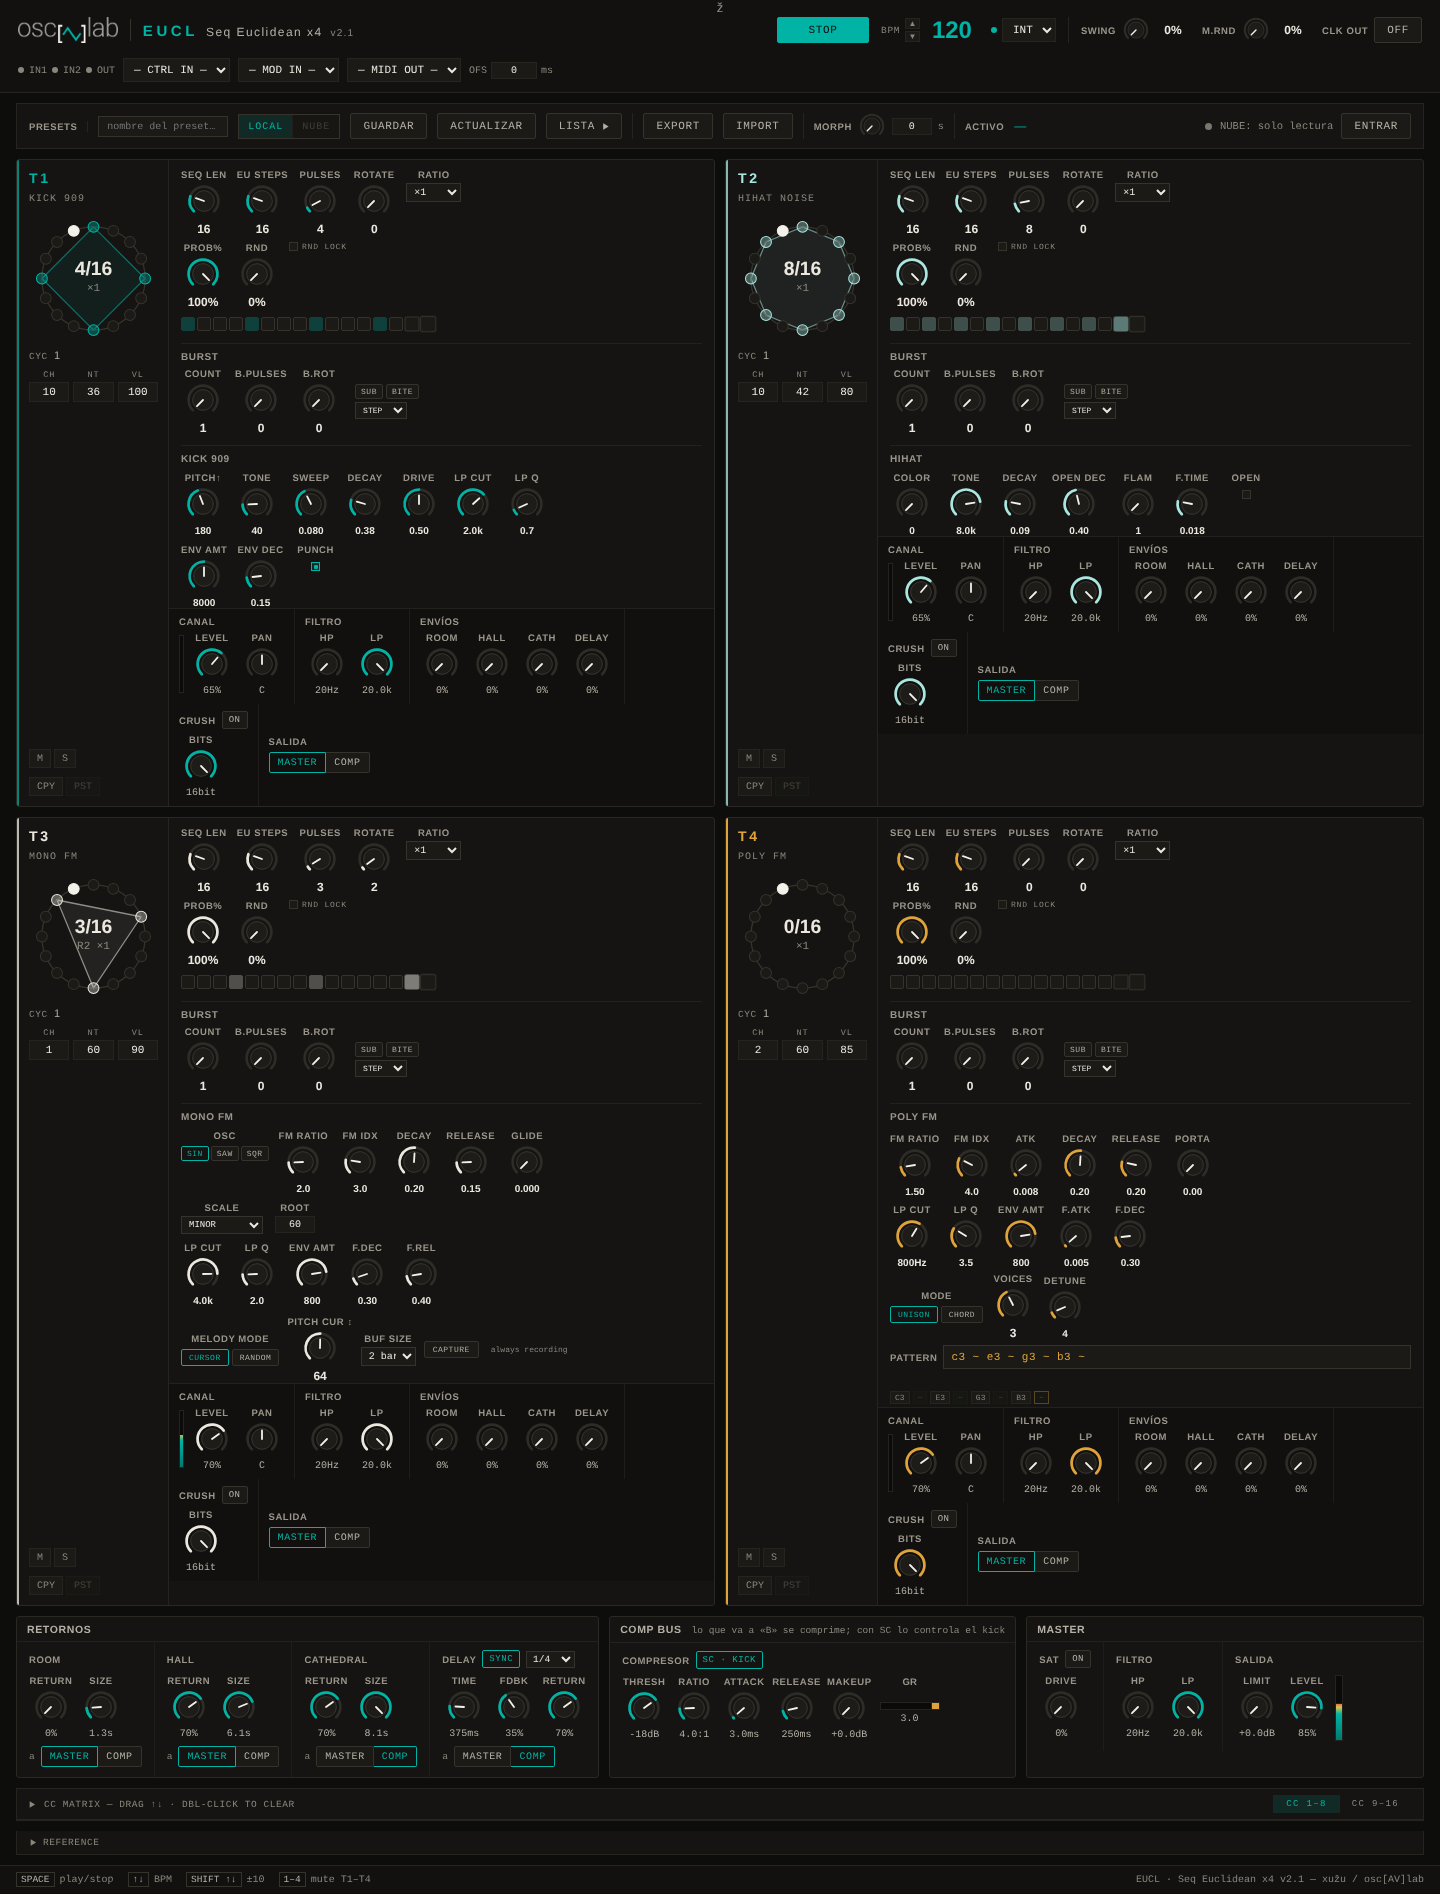
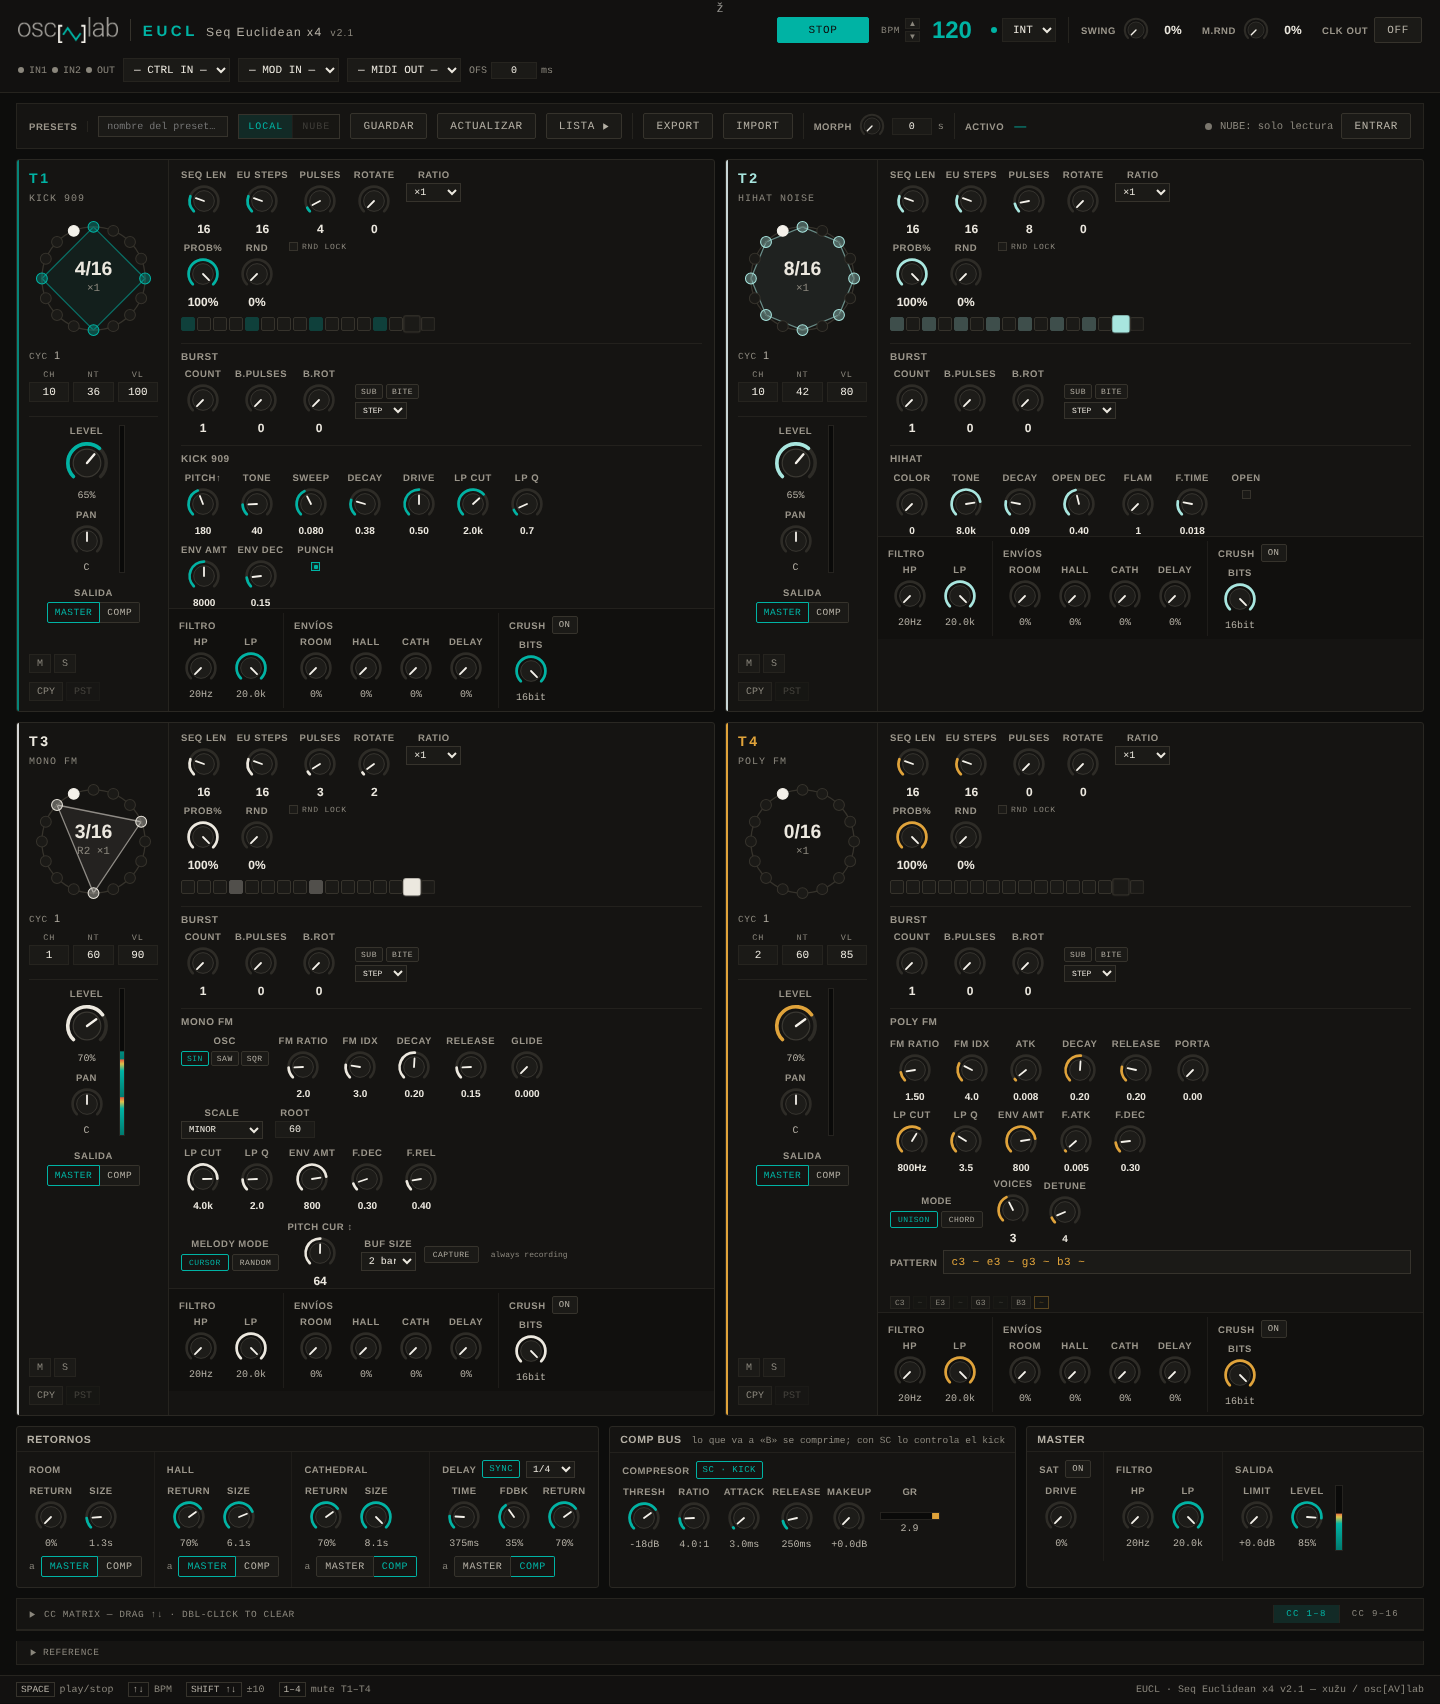
EUCL v2.1: LEVEL, PAN, medidor y salida en la columna de la pista (aprovecha el espacio vacío)
Claude-Session: https://claude.ai/code/session_01K8ta6SeUGUsWr74ibeh71w

diff --git a/index.html b/index.html
@@ -407,6 +407,13 @@ body{font-size:12px;background:var(--bg);color:var(--text);}
   .bus{display:block;}
   .busrack{display:grid;grid-template-columns:auto auto 1fr;}
 }
+
+.ch-head{display:flex;gap:8px;align-items:stretch;justify-content:center;margin-top:8px;padding-top:8px;border-top:1px solid #23211d;}
+.ch-knobs{display:flex;flex-direction:column;gap:8px;align-items:center;}
+.kg.big .kn{width:48px;height:48px;}
+.mtr.ch{height:auto;min-height:110px;width:6px;align-self:stretch;}
+.ch-out{display:flex;flex-direction:column;align-items:center;gap:4px;margin-top:8px;}
+.ch-out .seg2 .btn{padding:4px 7px;font-size:9.5px;}
 </style>
 </head>
 <body>
@@ -1628,6 +1635,7 @@ function buildTrack(t){
   h+='<svg class="ring" id="ring'+i+'" viewBox="0 0 100 100" style="color:'+c+'"></svg>';
   h+='<div class="cyc">CYC <b id="cyc'+i+'">0</b></div>';
   h+=buildSide(t);
+  h+=buildChannelHead(t);
   h+='<div class="ms-btns"><button class="ms-btn" id="mb'+i+'" onclick="toggleMute('+i+')">M</button>';
   h+='<button class="ms-btn" id="sb'+i+'" onclick="toggleSolo('+i+')">S</button></div>';
   h+='<div class="ms-btns" style="margin-top:3px">';
@@ -2823,11 +2831,6 @@ function buildMixStrip(t){
   const fHP=slToFreqLog(ms.hp,20,10000),fLP=slToFreqLog(ms.lp,200,20000);
   const pan=ms.pan||0,panD=Math.abs(pan)<0.02?'C':(pan<0?'L':'R')+Math.round(Math.abs(pan)*100);
   let h='<div class="t-mix">';
-  h+='<div class="mx-sec"><div class="mx-h">CANAL</div><div class="mx-row">';
-  h+='<div class="mtr" id="mtr'+i+'"><i></i></div>';
-  h+=kn('tmv_lv_'+i,'LEVEL',0,1,ms.lv,0.01,'setMxLv('+i+',+this.value)',_pct(ms.lv),'',MXS_DEF[i].lv);
-  h+=kn('tmv_pan_'+i,'PAN',-1,1,pan,0.01,'setMxPan('+i+',+this.value)',panD,'',0);
-  h+='</div></div>';
   h+='<div class="mx-sec"><div class="mx-h">FILTRO</div><div class="mx-row">';
   h+=kn('tmv_hp_'+i,'HP',0,1,ms.hp,0.001,'setMxHP('+i+',+this.value)',_fmtHz(fHP),'',0);
   h+=kn('tmv_lp_'+i,'LP',0,1,ms.lp,0.001,'setMxLP('+i+',+this.value)',_fmtHz(fLP),'',1);
@@ -2841,13 +2844,25 @@ function buildMixStrip(t){
   h+='<div class="mx-sec"><div class="mx-h">CRUSH <button class="btn mini'+(fx.bitOn?' on':'')+'" id="tbt'+i+'" onclick="toggleBit('+i+')">ON</button></div><div class="mx-row">';
   h+=kn('tmv_bd_'+i,'BITS',1,16,fx.bitDepth,1,'setBitDepth('+i+',+this.value)',fx.bitDepth+'bit','',16);
   h+='</div></div>';
-  h+='<div class="mx-sec"><div class="mx-h">SALIDA</div><div class="mx-row out">';
-  h+=seg2('mxout'+i,ms.out||'M','setMxOut.bind(null,'+i+')','M','B','MASTER','COMP bus (sidechain)');
-  h+='</div></div>';
   h+='</div>';
   return h;
 }
 const MXS_DEF=MXS.map(m=>({...m}));
+// cabecera de canal (columna izquierda de la pista): medidor, LEVEL, PAN y salida, como una consola
+function buildChannelHead(t){
+  const i=t.id,ms=MXS[i];
+  const pan=ms.pan||0,panD=Math.abs(pan)<0.02?'C':(pan<0?'L':'R')+Math.round(Math.abs(pan)*100);
+  let h='<div class="ch-head">';
+  h+='<div class="ch-knobs">';
+  h+=kn('tmv_lv_'+i,'LEVEL',0,1,ms.lv,0.01,'setMxLv('+i+',+this.value)',_pct(ms.lv),'big',MXS_DEF[i].lv);
+  h+=kn('tmv_pan_'+i,'PAN',-1,1,pan,0.01,'setMxPan('+i+',+this.value)',panD,'',0);
+  h+='</div>';
+  h+='<div class="mtr ch" id="mtr'+i+'"><i></i></div>';
+  h+='</div>';
+  h+='<div class="ch-out"><div class="kg-l">SALIDA</div>'+seg2('mxout'+i,ms.out||'M','setMxOut.bind(null,'+i+')','M','B','MASTER','COMP bus (sidechain)')+'</div>';
+  return h;
+}
+
 
 // ── BUS: retornos, COMP BUS y MASTER ──────────────────────────
 function buildMixerUI(){const p=document.getElementById('mixPanel');if(p){p.innerHTML='';p.style.display='none';}}
